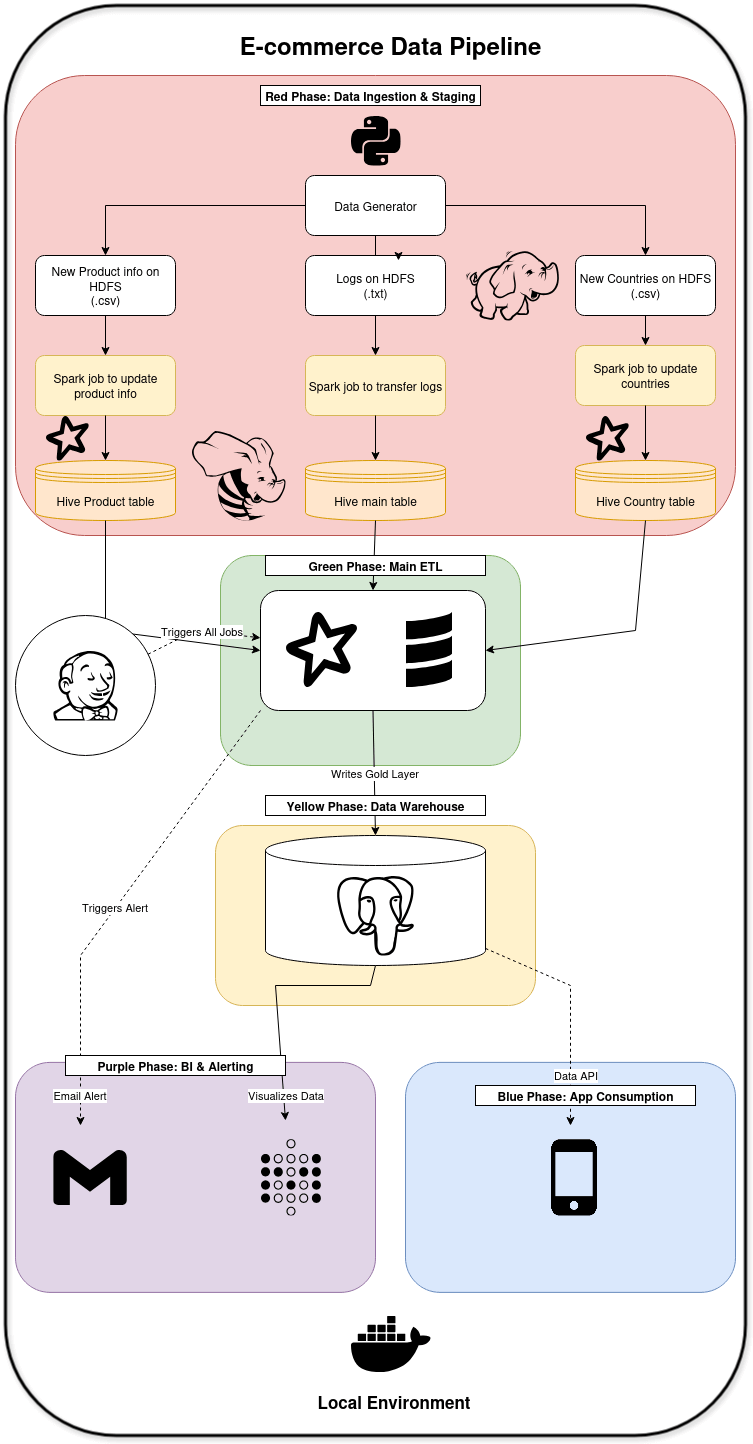
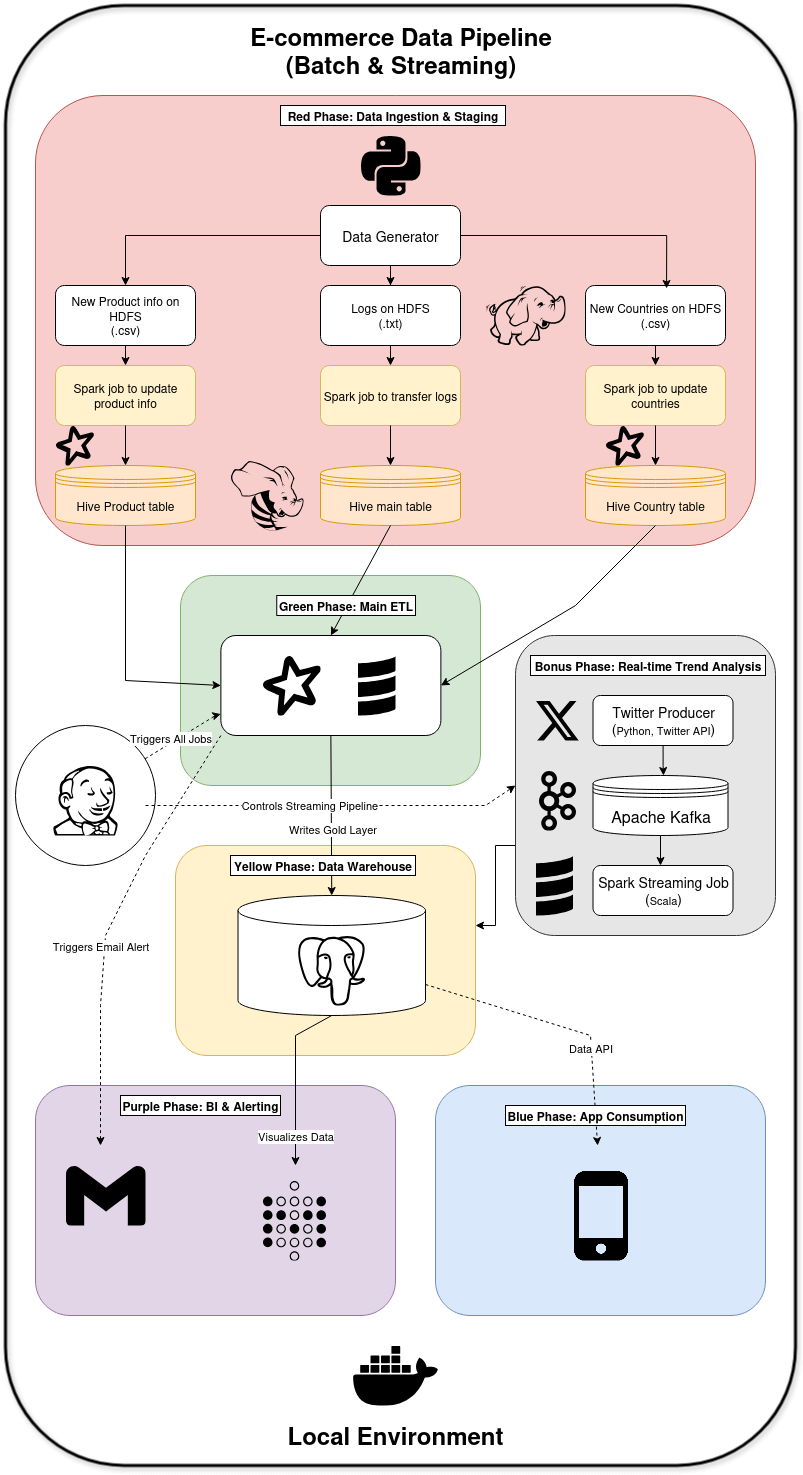
EP-12: (Bonus) Implement Twitter Trend Analysis Streaming Pipeline

Changed region(s): [[0.0, 0.0, 1.0, 0.9972], [0.4887, 0.7479, 0.5498, 0.8726], [0.0611, 0.6233, 0.1833, 0.6544]]

diff --git a/twitter-producer/producer.py b/twitter-producer/producer.py
@@ -1,0 +1,75 @@
+# twitter-producer/producer.py
+
+# Import necessary libraries
+import tweepy  # The official Python library for accessing the Twitter API v2
+import json  # Used for parsing API responses
+from kafka import KafkaProducer  # The client for sending messages to Kafka topics
+import time  # Used to add delays to the script
+import os  # Used to access environment variables for security
+
+# --- Twitter API Configuration ---
+# Securely retrieve the Bearer Token from an environment variable.
+bearer_token = os.environ.get("TWITTER_BEARER_TOKEN")
+if not bearer_token:
+    raise ValueError("TWITTER_BEARER_TOKEN environment variable not set!")
+
+# --- Kafka Configuration ---
+# Define the name of the Kafka topic where tweets will be sent.
+KAFKA_TOPIC = 'twitter_trends'
+# Define the address of the Kafka broker. 'kafka:29092' is the internal Docker network address.
+KAFKA_SERVER = 'kafka:29092'
+
+# --- Product Keywords for Search Query ---
+# This list contains the keywords that will be used to build a search query.
+product_keywords = ["cake", "tins", "pantry", "glass star", "t-light", "union jack", "hand warmer", "bird ornament", "playhouse", "mug cosy"]
+
+# This block runs when the script is executed directly.
+if __name__ == "__main__":
+    print("Starting Twitter Historical Search Producer...")
+    
+    # Initialize the main Tweepy client with your Bearer Token.
+    # This client is used for most v2 API endpoints, including search.
+    try:
+        client = tweepy.Client(bearer_token)
+        print("Connected to Twitter API.")
+    except Exception as e:
+        print(f"Error connecting to Twitter API: {e}")
+        exit()
+
+    # Initialize the Kafka producer, connecting to the Kafka server.
+    producer = KafkaProducer(bootstrap_servers=[KAFKA_SERVER])
+    print("Connected to Kafka.")
+
+    # Build the search query string for the Twitter API.
+    # " OR " means we want tweets containing ANY of the keywords.
+    # "-is:retweet lang:en" excludes retweets and ensures English language.
+    query = " OR ".join(product_keywords) + " -is:retweet lang:en"
+    
+    print(f"Searching for the last 100 tweets with query: {query}")
+
+    try:
+        # This is the main API call. It uses the search_recent_tweets method to
+        # get historical tweets from the last 7 days.
+        # max_results is set to 100 to be safe with API limits.
+        response = client.search_recent_tweets(query=query, max_results=100)
+
+        # The response object can be empty if no tweets are found.
+        if response.data:
+            print(f"Found {len(response.data)} tweets. Sending to Kafka...")
+            # Loop through each tweet found in the response.
+            for tweet in response.data:
+                tweet_text = tweet.text
+                print(f"--- Sending Tweet to Kafka: {tweet_text[:50]}...")
+                # Send each tweet's text to our Kafka topic.
+                producer.send(KAFKA_TOPIC, value=tweet_text.encode('utf-8'))
+                # Add a 60-second pause to be extra safe with API limits.
+                time.sleep(60)
+        else:
+            print("No tweets found for the given keywords in the last 7 days.")
+
+    except Exception as e:
+        print(f"An error occurred: {e}")
+    finally:
+        # This ensures the producer connection is closed cleanly when the script finishes.
+        producer.close()
+        print("Finished sending tweets. Kafka producer closed.")

diff --git a/SETUP_GUIDE.md b/SETUP_GUIDE.md
@@ -47,19 +47,25 @@ This step sets up the username and password for your PostgreSQL database.
 
 2.  **Open the new `.env` file** in your code editor (e.g., VS Code). You will see the following content:
     ```env
-    # PostgreSQL Credentials
+    # 1. PostgreSQL Data Warehouse Credentials
     POSTGRES_USER=your_usersname
     POSTGRES_PASSWORD=your_secure_password
     POSTGRES_DB=ecommerce_dwh
 
-     # --- Metabase Application DB Configuration ---
+    # 2. Metabase Application Database Credentials
     MB_DB_TYPE=postgres
     MB_DB_DBNAME=metabase_app_db
     MB_DB_PORT=5432
     MB_DB_USER= # Should match POSTGRES_USER
     MB_DB_PASS= # Should match POSTGRES_PASSWORD
     MB_DB_HOST=postgres-warehouse
+
+    # 3. Twitter API Credentials (for Bonus Task)
+    # This is required only for the bonus streaming pipeline (EP-12).
+    TWITTER_BEARER_TOKEN=your_twitter_bearer_token_here
     ```
+
+    # Note: To get a TWITTER_BEARER_TOKEN, you must have a Twitter Developer account and create an App within a Project on the Developer Portal.
 
 3.  **Edit the values** according to your preference.
     -   **`POSTGRES_USER` / `MB_DB_USER`**: Your username.
@@ -288,3 +294,55 @@ Create the following four questions to answer the business requirements from the
 4.  Add all four questions you created.
 5.  Drag and resize the charts to create a nice layout.
 6.  Click **Save**.   
+
+## Step 7 (Bonus): Running the Live Streaming Pipeline
+
+### 1. Create the `streaming-pipeline-control` Job in Jenkins
+
+This job acts as a "remote control" to start and stop your streaming pipeline.
+
+1.  On the Jenkins dashboard, click **New Item**.
+2.  Enter the name **`streaming-pipeline-control`**, select **Pipeline**, and click **OK**.
+3.  In the job configuration page, go to the **Pipeline** section.
+4.  Set **Definition** to `Pipeline script from SCM`.
+5.  Set **SCM** to `Git`.
+6.  Enter your GitHub repository URL.
+7.  Ensure the **Branch Specifier** is `*/main`.
+8.  Set the **Script Path** to `Jenkinsfile-streaming-control`.
+9.  Click **Save**.
+
+### 2. How to Use the `START`/`STOP` Controls
+
+Now that the job is created, you can manage your streaming pipeline directly from the Jenkins UI.
+
+1.  **To Start the Pipeline:**
+    -   Navigate to the `streaming-pipeline-control` job.
+    -   Click on **`Build with Parameters`** in the left-hand menu.
+    -   From the `ACTION` dropdown menu, select **`START`**.
+    -   Click the **`Build`** button.
+    -   This will start the `twitter-producer` and the `StreamProcessor` Spark job.
+
+2.  **To Stop the Pipeline:**
+    -   Navigate to the `streaming-pipeline-control` job.
+    -   Click on **`Build with Parameters`** again.
+    -   From the `ACTION` dropdown, select **`STOP`**.
+    -   Click the **`Build`**. This will stop all streaming components.
+
+### 3. Create the Metabase "Question" (Chart)
+
+After you have run the `START` action and let the pipeline run for a few minutes to collect and process data, you can visualize the results.
+
+1.  In Metabase, click **`+ New`** > **`Question`**.
+2.  Select your database (e.g., `E-commerce DWH`) and the new **`trending_products`** table.
+3.  You will see a table with the trending products. Click the **`Visualization`** button at the bottom and select the **`Bar`** chart icon.
+4.  Click **`Save`**. Name the question `Live Twitter Trends` and save it.
+
+### 4. Create the Final Dashboard
+
+1.  On the main Metabase page, click **`+ New`** > **`Dashboard`**.
+2.  Name your new dashboard **`Bonus - Live Trends`**.
+3.  Click the **`+`** icon to add your saved `Live Twitter Trends` question to the dashboard.
+4.  Resize the chart as needed.
+5.  **Set up Auto-Refresh:** To make the dashboard "live," click the **Clock icon (🕒)** in the top-right corner of the dashboard and set it to refresh **every 5 minutes**.
+6.  Click **`Save`** to save the dashboard.
+

diff --git a/README.md b/README.md
@@ -34,6 +34,14 @@ A performance analysis of the main ETL job (`LoadDWH`) was conducted using the S
 -   **Methodology:** The "Stages" tab in the Spark UI was used to review the duration and data shuffling metrics for each step of the Spark job.
 -   **Key Observation:** The longest-running stages are those involving joins and aggregations on the `fct_sales` table, which is expected. A potential future optimization could be to partition the Hive tables by date to reduce the amount of data scanned during the daily load.
 
+## Bonus Task (EP-12): Twitter Trend Analysis
+
+As a bonus, a complete, parallel mini-batch pipeline was built to analyze near real-time data from Twitter.
+
+-   **Architecture:** The pipeline uses a custom Python producer (`twitter-producer`) that connects to the **Twitter API v2 "Recent Search" endpoint**. It fetches a batch of recent tweets matching product keywords and sends them as messages to an **Apache Kafka** topic.
+-   **Processing:** A dedicated Spark job (`KafkaBatchProcessor.scala`) consumes the batch of messages from Kafka, processes the tweets, and writes the top trending products to a new `trending_products` table in PostgreSQL.
+-   **Visualization:** A dashboard in Metabase (`Bonus - Live Trends`) visualizes the results from the `trending_products` table.
+
 ## Architecture
 
 ![Architecture Diagram](docs/images/architecture_diagram.png)
@@ -43,6 +51,7 @@ A performance analysis of the main ETL job (`LoadDWH`) was conducted using the S
 -   **Containerization:** Docker, Docker Compose
 -   **Orchestration:** Jenkins
 -   **Data Lake:** Hadoop Distributed File System (HDFS)
+-   **Messaging/Streaming:** Apache Kafka
 -   **Staging / Metastore:** Apache Hive
 -   **Data Processing:** Apache Spark (using Scala)
 -   **Data Warehouse:** PostgreSQL
@@ -103,13 +112,13 @@ This dual system ensures both technical stability and proactive business monitor
 
 ## Final Dashboard & Screenshots
 
-### 1. E-commerce Sales Overview Dashboard
-
-This dashboard, built in Metabase, provides a high-level overview of business performance, answering key questions from the project's Yellow Phase.
-
+### 1. E-commerce Sales Overview Dashboard (Batch)
 ![Sales Overview Dashboard](docs/images/metabase_dashboard.png)
 
-### 2. Technical Components
+### 2. Live Twitter Trends Dashboard (Streaming)
+![Twitter Trends Dashboard](docs/images/twitter_trends_dashboard.png)
+
+### 3. Technical Components                     
 
 | Jenkins Pipeline View | Spark UI (Applications) |
 | :---: | :---: |
@@ -121,7 +130,7 @@ This dashboard, built in Metabase, provides a high-level overview of business pe
 | ![HDFS Data Lake](docs/images/hdfs_data_lake.png) | ![Hive Bronze Tables](docs/images/hive_bronze_tables.png) |
 | Terminal output showing raw files in HDFS. | The Hive Beeline client showing the structured bronze tables. |
 
-### 3. Project Management & Alerting
+### 4. Project Management & Alerting
 
 | Jira Project Board | SUCCESS Email | ALERT Email |
 | :---: | :---: | :---: |
